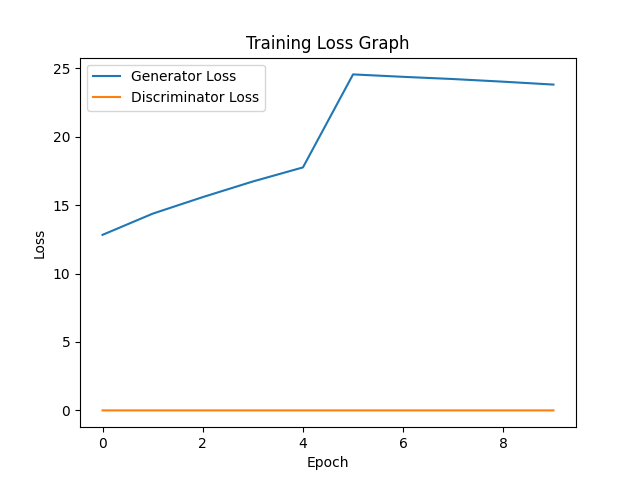
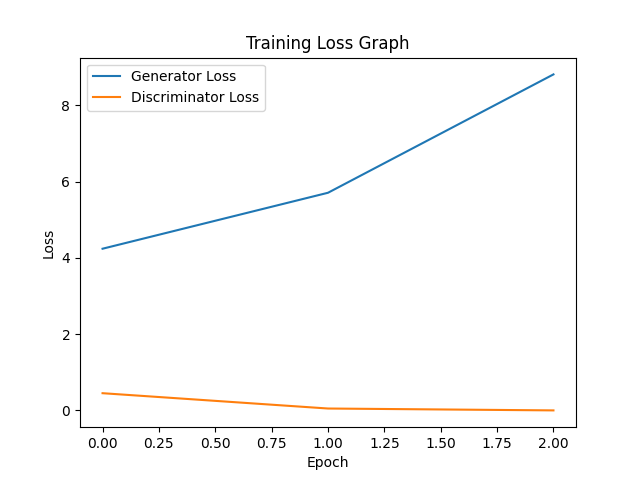
Added attention mechanism and visualization

diff --git a/train.py b/train.py
@@ -6,49 +6,76 @@ from torch.utils.data import DataLoader
 from model import Generator, Discriminator
 from text_utils import get_embedding
 
+import matplotlib.pyplot as plt
+import numpy as np
+
+# -------------------------------
+# Data Preprocessing
+# -------------------------------
 transform = transforms.Compose([
-    transforms.Grayscale(),        # ✅ convert to 1 channel
-    transforms.Resize((28, 28)),   # ✅ match model size
+    transforms.Grayscale(),
+    transforms.Resize((28, 28)),
     transforms.ToTensor(),
     transforms.Normalize((0.5,), (0.5,))
 ])
 
 dataset = datasets.CIFAR10(root="./data", download=True, transform=transform)
 
+# 👉 SPEED FIX: use small subset
+dataset = torch.utils.data.Subset(dataset, range(2000))
+
 dataloader = DataLoader(dataset, batch_size=32, shuffle=True)
 
-# Initialize models
+# -------------------------------
+# Models
+# -------------------------------
 generator = Generator()
 discriminator = Discriminator()
 
-# Loss function
 criterion = nn.BCELoss()
 
-# Optimizers
 g_optimizer = optim.Adam(generator.parameters(), lr=0.001)
 d_optimizer = optim.Adam(discriminator.parameters(), lr=0.001)
 
 g_losses = []
 d_losses = []
 
-# Training loop
-for epoch in range(10):
-    for real_images, labels in dataloader:
+# 👉 Store only ONE attention sample (FAST)
+saved_attention = None
+
+# -------------------------------
+# Training Loop
+# -------------------------------
+for epoch in range(3):   # 👉 reduce epochs for speed
+    for i, (real_images, _) in enumerate(dataloader):
 
         text = "a colorful object"
         text_embedding = get_embedding(text).detach()
 
-        real_images = real_images.view(real_images.size(0), -1)
-        noise = torch.randn(real_images.size(0), 100)
+        batch_size = real_images.size(0)
 
+        real_images = real_images.view(batch_size, -1)
+        text_embedding_batch = text_embedding.repeat(batch_size, 1)
+
+        noise = torch.randn(batch_size, 100)
+
+        # ---------------------
+        # Capture Attention (ONLY ONCE)
+        # ---------------------
+        if saved_attention is None:
+            attn_output = generator.attention(text_embedding_batch, text_embedding_batch)
+            saved_attention = attn_output.detach().numpy()
+
+        # ---------------------
         # Train Discriminator
-        fake_images = generator(text_embedding.repeat(real_images.size(0), 1), noise)
+        # ---------------------
+        fake_images = generator(text_embedding_batch, noise)
 
-        real_label = torch.ones(real_images.size(0), 1)
-        fake_label = torch.zeros(real_images.size(0), 1)
+        real_label = torch.ones(batch_size, 1)
+        fake_label = torch.zeros(batch_size, 1)
 
-        d_loss_real = criterion(discriminator(real_images, text_embedding.repeat(real_images.size(0), 1)), real_label)
-        d_loss_fake = criterion(discriminator(fake_images.detach(), text_embedding.repeat(real_images.size(0), 1)), fake_label)
+        d_loss_real = criterion(discriminator(real_images, text_embedding_batch), real_label)
+        d_loss_fake = criterion(discriminator(fake_images.detach(), text_embedding_batch), fake_label)
 
         d_loss = d_loss_real + d_loss_fake
 
@@ -56,11 +83,13 @@ for epoch in range(10):
         d_loss.backward()
         d_optimizer.step()
 
+        # ---------------------
         # Train Generator
-        noise = torch.randn(real_images.size(0), 100)
-        fake_images = generator(text_embedding.repeat(real_images.size(0), 1), noise)
+        # ---------------------
+        noise = torch.randn(batch_size, 100)
+        fake_images = generator(text_embedding_batch, noise)
 
-        g_loss = criterion(discriminator(fake_images, text_embedding.repeat(real_images.size(0), 1)), real_label)
+        g_loss = criterion(discriminator(fake_images, text_embedding_batch), real_label)
 
         g_optimizer.zero_grad()
         g_loss.backward()
@@ -68,10 +97,12 @@ for epoch in range(10):
 
     g_losses.append(g_loss.item())
     d_losses.append(d_loss.item())
+
     print(f"Epoch {epoch} | D Loss: {d_loss.item():.4f} | G Loss: {g_loss.item():.4f}")
 
-import matplotlib.pyplot as plt
-
+# -------------------------------
+# Plot Loss Graph
+# -------------------------------
 plt.plot(g_losses, label="Generator Loss")
 plt.plot(d_losses, label="Discriminator Loss")
 
@@ -82,4 +113,24 @@ plt.legend()
 
 plt.savefig("loss_graph.png")
 plt.show()
-    
+
+# -------------------------------
+# Attention Visualization (FAST)
+# -------------------------------
+avg_attention = saved_attention[0]  # take first sample
+
+# Normalize
+avg_attention = (avg_attention - avg_attention.min()) / (avg_attention.max() - avg_attention.min())
+
+# Reduce to 784
+if avg_attention.shape[0] < 784:
+    avg_attention = np.pad(avg_attention, (0, 784 - avg_attention.shape[0]))
+else:
+    avg_attention = avg_attention[:784]
+
+plt.imshow(avg_attention.reshape(28, 28), cmap='hot')
+plt.title("Attention Map Visualization")
+plt.colorbar()
+
+plt.savefig("attention_map.png")
+plt.show()

diff --git a/model.py b/model.py
@@ -1,9 +1,41 @@
 import torch
 import torch.nn as nn
 
+# -------------------------------
+# Cross Attention Module
+# -------------------------------
+class CrossAttention(nn.Module):
+    def __init__(self, embed_dim):
+        super().__init__()
+        self.embed_dim = embed_dim
+
+        self.query = nn.Linear(embed_dim, embed_dim)
+        self.key = nn.Linear(embed_dim, embed_dim)
+        self.value = nn.Linear(embed_dim, embed_dim)
+
+    def forward(self, text_embed, noise_embed):
+        # Project
+        Q = self.query(noise_embed)
+        K = self.key(text_embed)
+        V = self.value(text_embed)
+
+        # Compute attention (element-wise for simplicity)
+        attention_scores = torch.softmax(Q * K / (self.embed_dim ** 0.5), dim=1)
+
+        # Apply attention
+        out = attention_scores * V
+        return out
+
+
+# -------------------------------
+# Generator with Attention
+# -------------------------------
 class Generator(nn.Module):
     def __init__(self, text_dim=768, noise_dim=100):
         super().__init__()
+
+        self.attention = CrossAttention(text_dim)
+
         self.model = nn.Sequential(
             nn.Linear(text_dim + noise_dim, 256),
             nn.ReLU(),
@@ -14,13 +46,22 @@ class Generator(nn.Module):
         )
 
     def forward(self, text_embedding, noise):
-        x = torch.cat((text_embedding, noise), dim=1)
+        # Apply attention
+        attn_output = self.attention(text_embedding, text_embedding)
+
+        # Combine with noise
+        x = torch.cat((attn_output, noise), dim=1)
+
         return self.model(x)
 
 
+# -------------------------------
+# Discriminator
+# -------------------------------
 class Discriminator(nn.Module):
     def __init__(self, text_dim=768):
         super().__init__()
+
         self.model = nn.Sequential(
             nn.Linear(784 + text_dim, 512),
             nn.ReLU(),